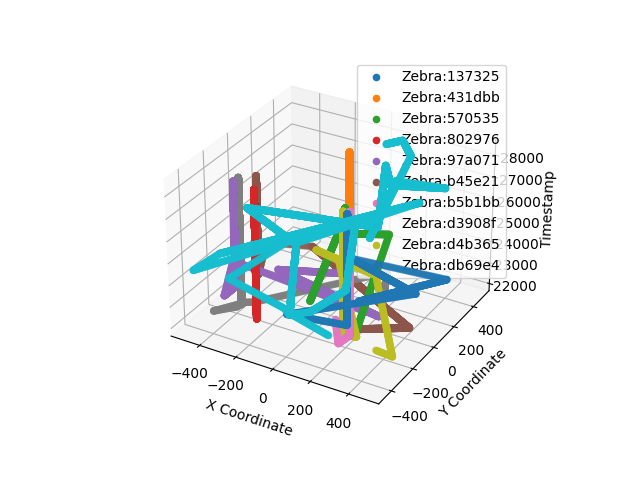
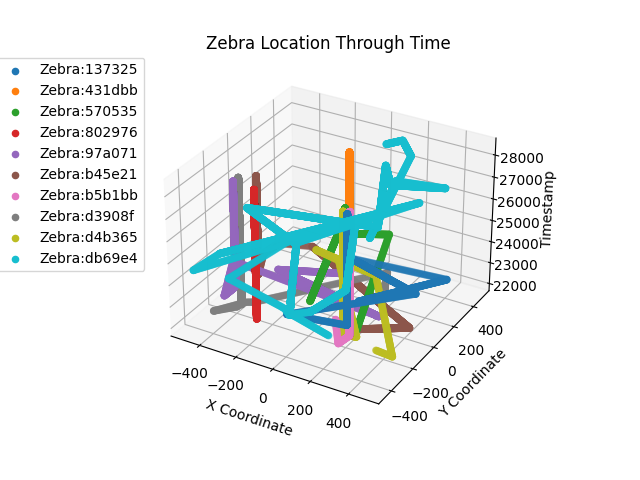
adjust plots

diff --git a/lab5/analyze_logs.py b/lab5/analyze_logs.py
@@ -81,8 +81,9 @@ if __name__ == "__main__":
     ax.set_xlabel("X Coordinate")
     ax.set_ylabel("Y Coordinate")
     ax.set_zlabel("Timestamp")
-    ax.legend()
+    ax.legend(bbox_to_anchor=(-0.4, 1), loc='upper left', borderaxespad=0)
 
+    plt.title("Zebra Location Through Time")
     # Save the plot
     plt.savefig(f"{VISUALS_DIR}zebra_coordinates.png")
     plt.close()
